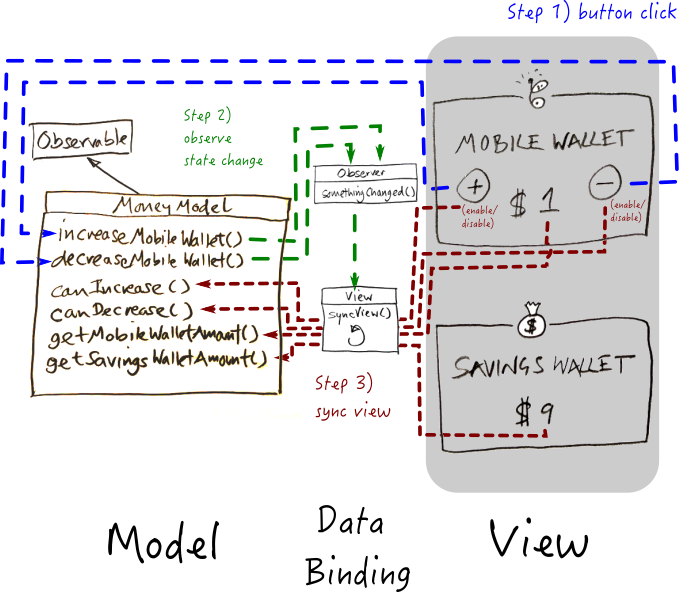
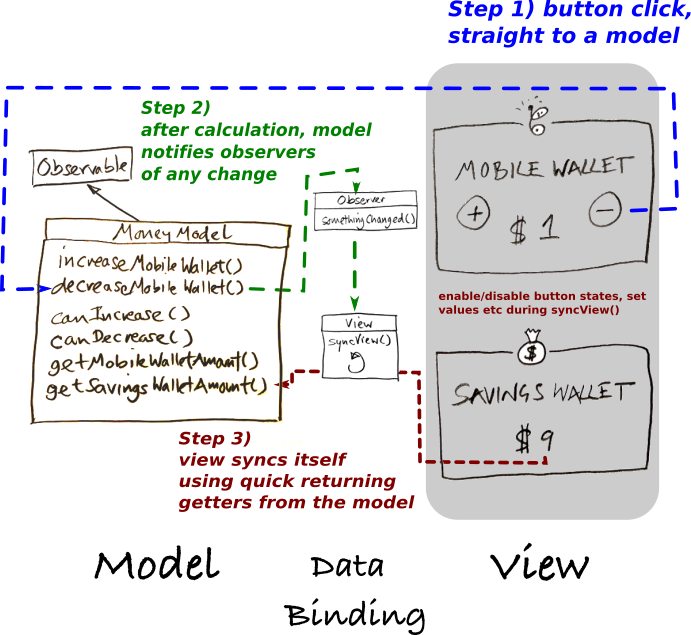
doc updates

diff --git a/docs/07-architecture.md b/docs/07-architecture.md
@@ -2,7 +2,7 @@
 
 # Architecture
 
-If you enjoy architecture diagrams, hopefully you'll love this page. If you don't,  let's just say that ASAF is **MVW** and be done with it ;)
+If you enjoy architecture diagrams, hopefully you'll love this page. If you don't, let's just say that ASAF is **MVW** and be done with it ;) [back to the docs](https://erdo.github.io/asaf-project/#shoom)
 
 Discussions of **MVC**, **MVP** and **MVVM** can get quite abstract, and specific implementations often differ considerably. For the purposes of our discussion the following flow diagrams will do:
 
@@ -40,13 +40,15 @@ In MVVM you typically have a View-Model for each View, so even though there are 
 
 You can implement this using XML bindings on Android, but when you get into the details I don't think it's a particularly nice solution (but it may work for you) - I particularly dislike the bit where we move code to XML, but it's a considerable step forward none the less. Importantly, all the arrows are pointing the right way! (which, no surprise, happens to match the direction of the arrows in [clean architecture](https://8thlight.com/blog/uncle-bob/2012/08/13/the-clean-architecture.html))
 
-Now finally here is what ASAF looks like in a real app:
+## Finally ASAF
+
+Here is what ASAF looks like in a real app:
 
 ![simple basket](img/arch_mvvm_light.png)
 
-Well how does that work? you can't just remove boxes and call it better! (I hear you say). The devil is in the detail...
+Well how does that work? you can't just remove boxes and call it better! (I hear you say).
 
-As with all the architectures discussed so far, here the Model knows nothing about the View. In ASAF, when the view is destroyed and recreated, the view re-attaches it self to the model using the observer pattern. Any click listeners or method calls as a result of user interaction are sent directly to the relevant model (no benefit here in sending them via a Presenter).
+As with all the architectures discussed so far, here the Model knows nothing about the View. In ASAF, when the view is destroyed and recreated, the view re-attaches it self to the model using the observer pattern. Any click listeners or method calls as a result of user interaction are sent directly to the relevant model (no benefit here in sending them via a Presenter). With this architecture you remove a lot of problems around lifecycle management and handling rotations, it also turns out that the code to implement it is a lot less verbose (and it's also very testable).
 
 **There are a few things in ASAF that allow you an architecture this simple:**
 
@@ -57,7 +59,7 @@ As with all the architectures discussed so far, here the Model knows nothing abo
 
 <a name="bad-diagram"></a>
 
-This can be summarised by the diagram below which actually manages to make things look more complicated than they are, don't worry, the actual code is a lot cleaner! (this diagram roughly matches what is going on in [sample app 1](https://erdo.github.io/asaf-project/#asaf-1-data-binding-example)). It'll probably make more sense to you once you have looked at the code. See if you can follow through from Step 1) -> Step 3)... or you know... just read the code ;)
+The flow can be summarised by the diagram below which actually manages to make things look more complicated than they are, don't worry, the actual code is a lot cleaner! (this diagram roughly matches what is going on in [sample app 1](https://erdo.github.io/asaf-project/#asaf-1-data-binding-example)). It'll probably make more sense to you once you have looked at the code. See if you can follow through from Step 1) -> Step 3)... or you know... just read the [code](https://github.com/erdo/asaf-project/tree/master/example01databinding) ;)
 
 
 ![data binding](img/data-binding.png)
@@ -66,7 +68,7 @@ This can be summarised by the diagram below which actually manages to make thing
 > "Observable **Models**; **Views** doing the observing; and some **Data Binding** tricks to tie it all together"
 
  
-### What's a Controller
+### BTW, What's a Controller
 It helps to remember that MVC is at least 3 decades old, I think it was Microsoft who invented it [I saw a Microsoft white paper written about it once, but I can't find it anywhere now]. A controller means different things on different platforms.
 
 Originally a controller might have been a class that accepts mouse clicks at specific pixel co-ordinate, did some collision detection to find out which UI component was clicked, then sent that information on to the appropriate UI classes for further processing. (A controller in a web app however, might be a main entry point URL that forwards on requests to different parts of the system.)
